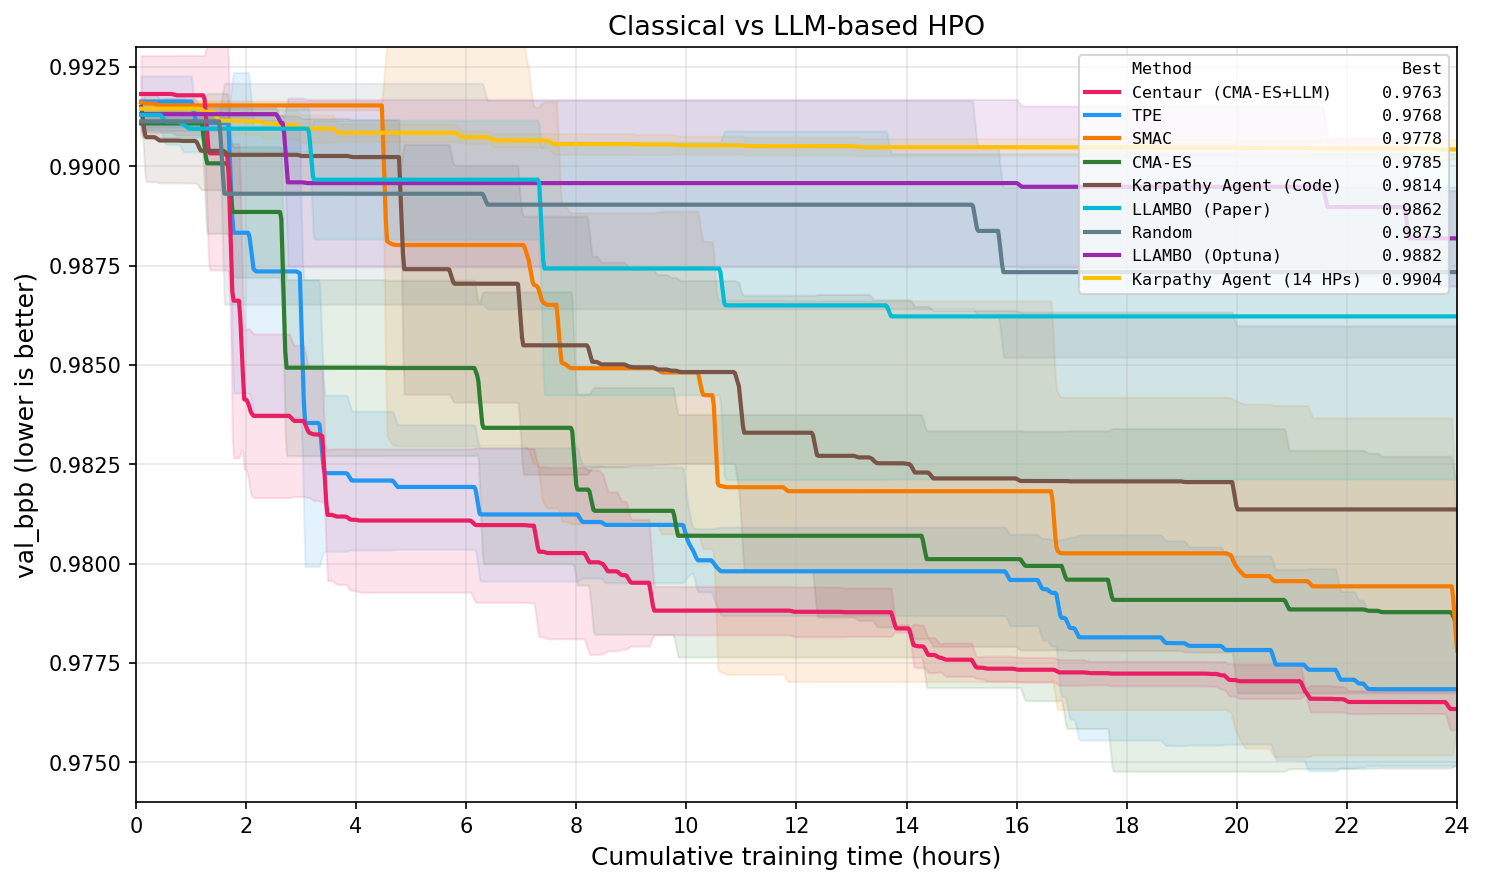
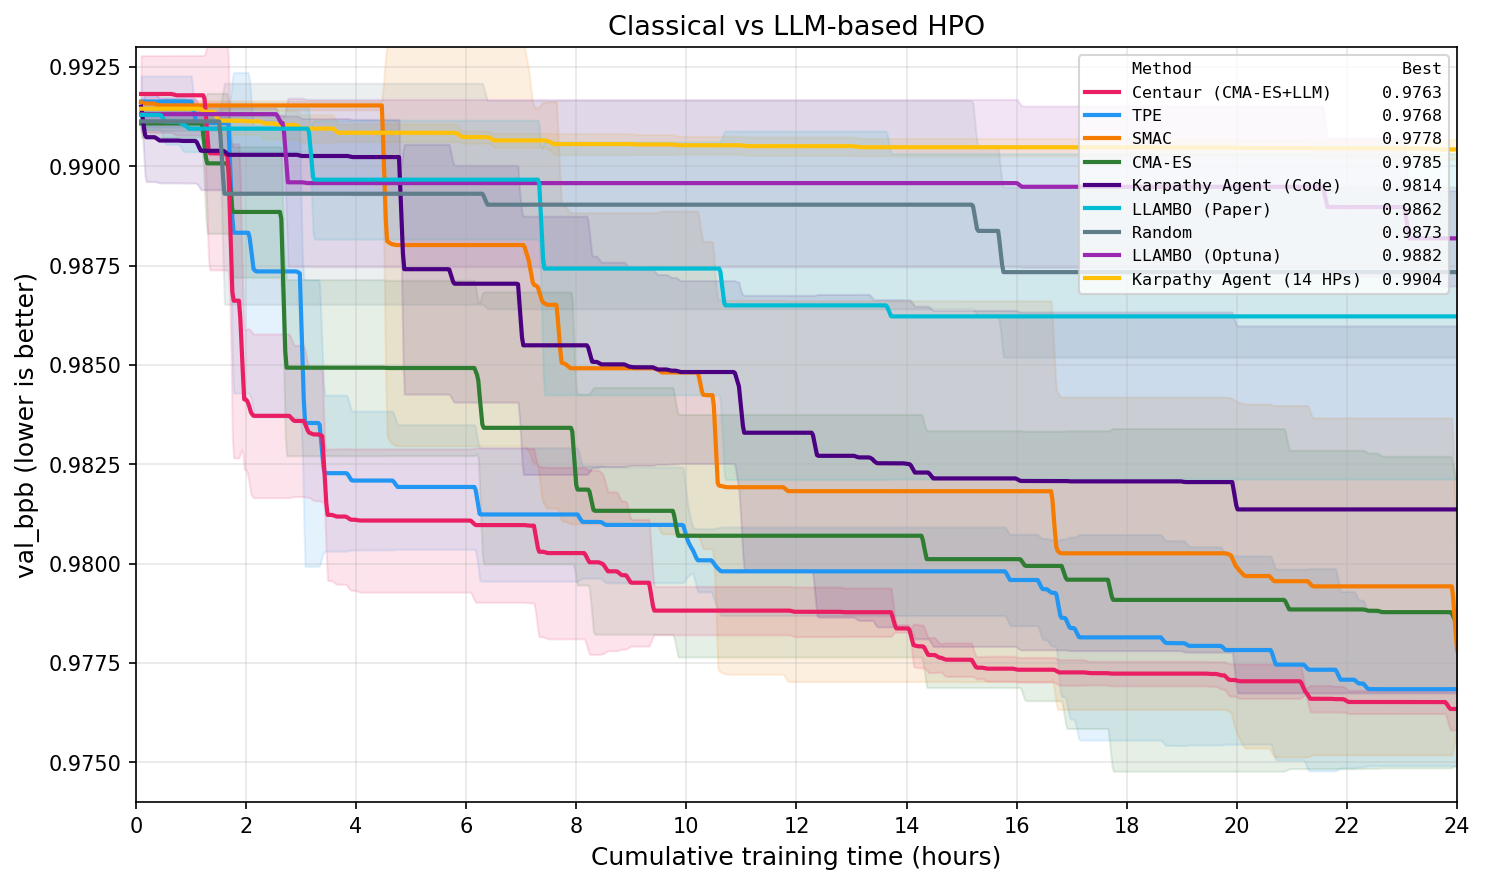
Consistent colors across all plots: KA Code purple, Centaur pink, TPE blue

diff --git a/scripts/plot_convergence.py b/scripts/plot_convergence.py
@@ -260,7 +260,7 @@ BACKENDS_27B = {
     "cma_es": {"label": "CMA-ES", "color": "#2E7D32"},        # dark green
     "smac": {"label": "SMAC", "color": "#F57C00"},             # dark orange
     "centaur_Qwen3_5_27B": {"label": "Centaur (CMA-ES+LLM)", "color": "#E91E63"},  # pink
-    "karpathy_agent_Qwen3_5_27B": {"label": "Karpathy Agent (Code)", "color": "#795548"},  # brown
+    "karpathy_agent_Qwen3_5_27B": {"label": "Karpathy Agent (Code)", "color": "#4B0082"},  # purple
     "karpathy_agent_hps_Qwen3_5_27B": {"label": "Karpathy Agent (14 HPs)", "color": "#FFC107"},  # amber/gold
     "llambo_Qwen3_5_27B": {"label": "LLAMBO (Optuna)", "color": "#9C27B0"},  # purple
     "llambo_original_Qwen3_5_27B": {"label": "LLAMBO (Paper)", "color": "#00BCD4"},  # cyan
@@ -278,8 +278,8 @@ BACKENDS_ALL = {
     "llambo": {"label": "LLAMBO (Optuna) [0.8B]", "color": "#9C27B0", "linestyle": "--"},
     "karpathy_agent_hps_Qwen3_5_27B": {"label": "Karpathy Agent (14 HPs) [27B]", "color": "#FFC107", "linestyle": "-"},
     "karpathy_agent_hps": {"label": "Karpathy Agent (14 HPs) [0.8B]", "color": "#FFC107", "linestyle": "--"},
-    "karpathy_agent_Qwen3_5_27B": {"label": "Karpathy Agent (Code) [27B]", "color": "#795548", "linestyle": "-"},
-    "karpathy_agent_Qwen3_5_0_8B": {"label": "Karpathy Agent (Code) [0.8B]", "color": "#795548", "linestyle": "--"},
+    "karpathy_agent_Qwen3_5_27B": {"label": "Karpathy Agent (Code) [27B]", "color": "#4B0082", "linestyle": "-"},
+    "karpathy_agent_Qwen3_5_0_8B": {"label": "Karpathy Agent (Code) [0.8B]", "color": "#4B0082", "linestyle": "--"},
 }
 
 
@@ -333,8 +333,8 @@ def plot_exp2_model_size(results_dir: Path, output_path: Path):
     """Compare 0.8B vs 27B LLM methods, with best classical as reference."""
     backends = {
         "cma_es": {"label": "CMA-ES (best classical)", "color": "#2E7D32", "linestyle": "-"},
-        "karpathy_agent_Qwen3_5_0_8B": {"label": "Karpathy Agent (Code) [0.8B]", "color": "#795548", "linestyle": "--"},
-        "karpathy_agent_Qwen3_5_27B": {"label": "Karpathy Agent (Code) [27B]", "color": "#795548", "linestyle": "-"},
+        "karpathy_agent_Qwen3_5_0_8B": {"label": "Karpathy Agent (Code) [0.8B]", "color": "#4B0082", "linestyle": "--"},
+        "karpathy_agent_Qwen3_5_27B": {"label": "Karpathy Agent (Code) [27B]", "color": "#4B0082", "linestyle": "-"},
         "llambo_original_Qwen3_5_27B": {"label": "LLAMBO (Paper) [27B]", "color": "#00BCD4", "linestyle": "-"},
         "karpathy_agent_hps_Qwen3_5_27B": {"label": "Karpathy Agent (14 HPs) [27B]", "color": "#D32F2F", "linestyle": "-"},
     }
@@ -815,7 +815,7 @@ INCUMBENT_LLM = [
     ("llambo_original_Qwen3_5_27B", "LLAMBO (Paper) [27B]", "#00BCD4"),
     ("llambo_Qwen3_5_27B", "LLAMBO (Optuna) [27B]", "#9C27B0"),
     ("karpathy_agent_hps_Qwen3_5_27B", "Karpathy Agent (14 HPs) [27B]", "#FF9800"),
-    ("karpathy_agent_Qwen3_5_27B", "Karpathy Agent (Code) [27B]", "#795548"),
+    ("karpathy_agent_Qwen3_5_27B", "Karpathy Agent (Code) [27B]", "#4B0082"),
 ]
 
 
